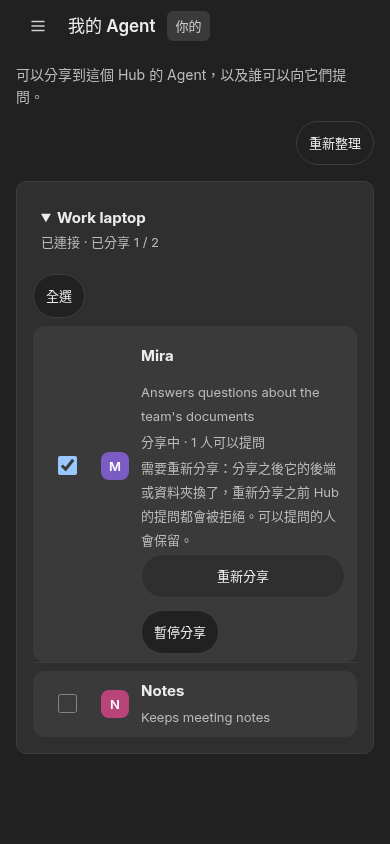
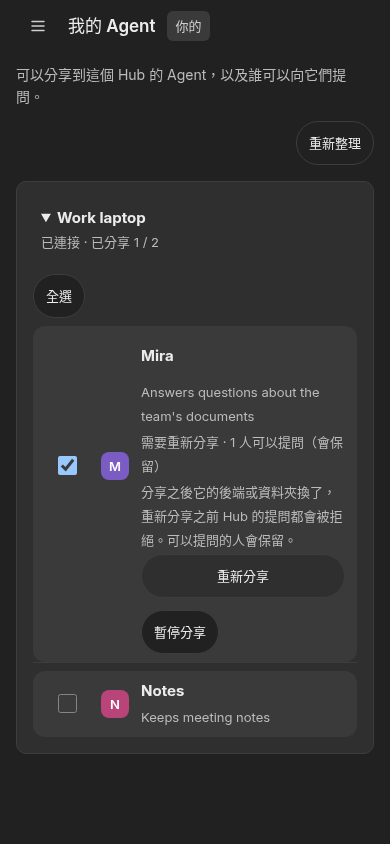
fix(hub): a lapsed row's status says Needs re-share with who may ask (kept); the Fleet hint says 提問 (#4361 leader review)

Changed region(s): [[0.3692, 0.4929, 0.8923, 0.6469]]

diff --git a/src/ui/hub-my-agents-strings.js b/src/ui/hub-my-agents-strings.js
@@ -3,7 +3,7 @@ register("hubMyAgents", {
  en: {
   offlineShort:"Offline · last seen {0}", knownShared:"{0} shared", oldCountOne:"1 Fleet needs an update to share agents from here.", oldCount:"{0} Fleets need an update to share agents from here.", namesMore:"{0} and {1} more", lead:"The agents you can share on this Hub, and who may ask each one.", refresh:"Refresh", refreshing:"Checking…", fleet:"Fleet", connected:"Connected", offline:"This Fleet is offline. Shown as last seen at {0}.", count:"{0} of {1} shared", select:"Select all", general:"Your Fleet's General. It can manage this Fleet.", classic:"ClassicBot room", classicHint:"Hub questions and answers are not posted in its Discord or Telegram room, and the room's chat is not copied to the Hub. It is one agent with one memory: it may use what it learned in the room when it answers here.",
   old:"Update this Fleet to share agents from here.", update:"Update this Fleet", updateHint:"On that computer, open Settings → Hub and check its connection and version.", off:"Sharing from the Hub page is turned off in this Fleet's Settings → Hub.", denied:"Your Hub administrator hasn't allowed you to share agents.", unknown:"The Hub could not check whether sharing is allowed. Refresh to check.", remote:"This kind of agent can't answer Hub questions yet.", unavailable:"This agent cannot answer Hub questions right now.", limit:"This Fleet already shares 64 agents, the most allowed.", suspended:"This Fleet is paused on this Hub.", revoked:"This Fleet was removed from this Hub.",
-  lapsed:"Needs re-share: its backend or folder changed since you shared it, and Hub questions are refused until you share it again. The people who may ask it stay.", shareAgain:"Share again",
+  lapsed:"Its backend or folder changed since you shared it, so Hub questions are refused until you share it again. The people who may ask it stay.", shareAgain:"Share again", needsReshare:"Needs re-share", kept:"(kept)",
   shared:"Shared", nobody:"nobody may ask yet", peopleOne:"1 person may ask", people:"{0} people may ask", subjects:"{0} people, groups or teams may ask", paused:"Paused", sharing:"Sharing…", stopping:"Stopping…", uncertain:"Not confirmed yet: this Fleet hasn't answered. Refresh to check.", refused:"Not shared: {0}", changed:"This list changed. It has been refreshed; tick again.",
   shareOne:"Share 1 agent", stopOne:"Stop sharing 1 agent", stopTitleOne:"Stop sharing 1 agent?", accessTitleOne:"1 agent is shared. Who may ask it?", share:"Share {0} agents", stop:"Stop sharing {0} agents", mixed:"Share {0} · Stop sharing {1}", apply:"Apply changes", cancel:"Cancel", stopTitle:"Stop sharing {0} agents?", stopBody:"People will no longer be able to ask: {0}. Their lists of who may ask are cleared.", stopHint:"To keep the lists and only stop answers for now, pause sharing instead.", stopGo:"Stop sharing", pause:"Pause instead", pauseOne:"Pause sharing", later:"Decide later", accessTitle:"{0} agents are shared. Who may ask them?", accessLead:"Nobody can ask them until you choose.", same:"The same people for all {0}", each:"Choose for each agent", choose:"Choose who may ask", previousMixed:"Use the list it had before", previous:"Use the list it had before ({0} people)", used:"The previous list is saved.", saved:"Saved", saveFailed:"Could not save access for {0}. Check the current agent and try again.", personal:"On my own computer", details:"Open {0}",
   empty:"You don't have an agent on this Hub yet.", already:"You can already ask other people's agents: open Chats, or @mention an agent in a room.", emptyLead:"To have an agent of your own that colleagues can ask:", personalOff:"Personal agents are turned off on this Hub. Ask your Hub administrator.", fleetLead:"If you run AgEnD, share the agents in it.", connectDenied:"Ask your Hub administrator to let you connect a Fleet.", apps:"Your own Claude Code or Codex can also use this Hub for you. That is for asking and posting as you. Colleagues can't ask it.", appsLink:"My AI apps", failed:"The list could not be read. Refresh to try again.",
@@ -11,7 +11,7 @@ register("hubMyAgents", {
  "zh-TW": {
   offlineShort:"離線 · 最後上線 {0}", knownShared:"已分享 {0}", oldCountOne:"有 1 個 Fleet 需要更新，才能從這裡分享 Agent。", oldCount:"有 {0} 個 Fleet 需要更新，才能從這裡分享 Agent。", namesMore:"{0} 等 {1} 個", lead:"可以分享到這個 Hub 的 Agent，以及誰可以向它們提問。", refresh:"重新整理", refreshing:"確認中…", fleet:"Fleet", connected:"已連接", offline:"這個 Fleet 目前離線，顯示的是 {0} 的狀態。", count:"已分享 {0} / {1}", select:"全選", general:"你的 Fleet 的 General，可以管理這個 Fleet。", classic:"ClassicBot 房間", classicHint:"Hub 的提問與回答不會貼到它的 Discord 或 Telegram 房間，房間的聊天也不會複製到 Hub。但它是同一個 Agent、同一份記憶：在這裡回答時，可能用到它在房間裡得知的內容。",
   old:"請更新這個 Fleet，才能從這裡分享 Agent。", update:"更新這個 Fleet", updateHint:"請到那台電腦的「設定 → Hub」，確認連接狀態與版本。", off:"這個 Fleet 的「設定 → Hub」關閉了從 Hub 頁面分享。", denied:"Hub 管理員還沒有允許你分享 Agent。", unknown:"Hub 目前無法確認是否允許分享，請重新整理確認。", remote:"這種 Agent 還不能回答 Hub 的提問。", unavailable:"這個 Agent 目前無法回答 Hub 的提問。", limit:"這個 Fleet 已經分享 64 個 Agent，達到上限。", suspended:"這個 Fleet 在這個 Hub 已暫停。", revoked:"這個 Fleet 已從這個 Hub 移除。",
-  lapsed:"需要重新分享：分享之後它的後端或資料夾換了，重新分享之前 Hub 的提問都會被拒絕。可以提問的人會保留。", shareAgain:"重新分享",
+  lapsed:"分享之後它的後端或資料夾換了，重新分享之前 Hub 的提問都會被拒絕。可以提問的人會保留。", shareAgain:"重新分享", needsReshare:"需要重新分享", kept:"（會保留）",
   shared:"分享中", nobody:"還沒有人可以問", peopleOne:"1 人可以提問", people:"{0} 人可以提問", subjects:"{0} 個人員、群組或團隊可以提問", paused:"已暫停", sharing:"分享中…", stopping:"停止中…", uncertain:"還沒有確認：這個 Fleet 尚未回應，請重新整理確認。", refused:"沒有分享：{0}", changed:"清單已有變動並重新整理，請重新勾選。",
   shareOne:"分享 1 個 Agent", stopOne:"停止分享 1 個 Agent", stopTitleOne:"要停止分享 1 個 Agent 嗎？", accessTitleOne:"已分享 1 個 Agent。誰可以問它？", share:"分享 {0} 個 Agent", stop:"停止分享 {0} 個 Agent", mixed:"分享 {0} 個 · 停止分享 {1} 個", apply:"套用變更", cancel:"取消", stopTitle:"要停止分享 {0} 個 Agent 嗎？", stopBody:"同仁將無法再問：{0}。這些 Agent 的「可以提問的人」名單會被清除。", stopHint:"如果只是暫時不回答、想保留名單，請改用「暫停分享」。", stopGo:"停止分享", pause:"改為暫停", pauseOne:"暫停分享", later:"稍後再決定", accessTitle:"已分享 {0} 個 Agent。誰可以問它們？", accessLead:"在你選擇之前，沒有人可以問它們。", same:"{0} 個都用同一份名單", each:"每個 Agent 分開選", choose:"選擇誰可以提問", previousMixed:"沿用之前的名單", previous:"沿用之前的名單（{0} 人）", used:"已儲存之前的名單。", saved:"已儲存", saveFailed:"無法儲存 {0} 的提問權限，請確認目前的 Agent 後再試。", personal:"在我的電腦上", details:"開啟 {0}",
   empty:"你在這個 Hub 還沒有自己的 Agent。", already:"你現在就可以問別人的 Agent：到「對話」，或在房間裡 @ 一個 Agent。", emptyLead:"想要有自己的 Agent 讓同仁提問：", personalOff:"這個 Hub 還沒有開啟個人 Agent，請洽 Hub 管理員。", fleetLead:"如果你有在使用 AgEnD，可以分享裡面的 Agent。", connectDenied:"請 Hub 管理員允許你連接 Fleet。", apps:"你自己的 Claude Code 或 Codex 也可以替你使用這個 Hub，用來提問和發言；同仁不能問它。", appsLink:"我的 AI App", failed:"無法讀取清單，請重新整理再試。",

diff --git a/src/ui/hub-my-agents.js b/src/ui/hub-my-agents.js
@@ -131,7 +131,9 @@ export function HubMyAgents({ client, scope, shared = [], policy = false, person
             <span class="hub-row-text">${row.current ? html`<a href=${`/ui/hub/exposures?agent=${encodeURIComponent(row.current.id)}`} aria-label=${ms("details", row.displayName)}><strong>${row.displayName}</strong></a>` : html`<strong>${row.displayName}</strong>`}
               ${row.kind === "classic-room" ? html`<small class="tag">${ms("classic")}</small>` : null}<small class="note">${reason && reason !== "offline" ? ms(reason) : row.general ? ms("general") : row.description}</small>
               ${row.current?.intro ? html`<small class="note">${row.current.intro}</small>` : null}
-              ${row.shared ? html`<small class="note">${ms(row.current.state !== "published" ? "paused" : "shared")} · ${summary(row.current)}</small>` : null}
+              ${row.shared ? (row.exposure?.lapsed === true && row.instance
+                ? html`<small class="note hub-agent-lapsed-status">${ms("needsReshare")} · ${summary(row.current)}${lang() === "zh-TW" ? "" : " "}${ms("kept")}</small>`
+                : html`<small class="note">${ms(row.current.state !== "published" ? "paused" : "shared")} · ${summary(row.current)}</small>`) : null}
               ${row.shared && row.exposure?.lapsed === true && row.instance ? html`<small class="note hub-agent-lapsed" role="status">${ms("lapsed")}</small>
                 <button type="button" class="btn btn-sm hub-agent-share-again" data-share-again=${row.instance} disabled=${busy || !!waiting.length} onClick=${() => shareAgain(row, fleet)}>${ms("shareAgain")}</button>` : null}
               ${status ? html`<small class=${status.state === "refused" ? "err" : "note"} role="status">${status.state === "uncertain" ? ms("uncertain") : status.state === "refused" ? status.code === "stale-list" ? ms("changed") : ms("refused", ms(({ "not-allowed": "denied", "switched-off": "off", "limit": "limit", "not-shareable": "unavailable" })[status.code] || "unavailable")) : ms(status.instance ? "sharing" : "stopping")}</small>` : null}</span>

diff --git a/src/ui/hub-strings.js b/src/ui/hub-strings.js
@@ -147,7 +147,7 @@ register("hub", {
     hold_rejected: "Hub 無法繼續使用這個 Fleet 儲存的連接。Hub 可能已還原至較舊的狀態，或不再接受這個 Fleet；請重新連接。",
     hold_refused: "Hub 拒絕了這次連接。", hold_revoked: "Hub 已撤銷這個 Fleet 的連接。", hold_other: "連接已暫停。",
     contactLimit: "回答 Hub 的提問時，這個 Agent 不能聯絡其他 Agent",
-    contactLimitHint: "Hub 上的人可以問這個 Agent，但不能透過它找到你的其他 Agent。回答獲接受或經過 30 分鐘後解除。",
+    contactLimitHint: "Hub 上的人可以向這個 Agent 提問，但不能透過它找到你的其他 Agent。回答獲接受或經過 30 分鐘後解除。",
     contactLimitNotice: "現有分享已開啟聯絡限制。若要讓 Agent 在回答 Hub 提問時互相協助，請到「設定 → Hub → 分享的 Agent」取消勾選「回答 Hub 的提問時，這個 Agent 不能聯絡其他 Agent」。",
     contactNoticeDone: "知道了",
     sharedTitle: "分享的 Agent",

diff --git a/tests/hub-share-lapse-page-m3543.test.ts b/tests/hub-share-lapse-page-m3543.test.ts
@@ -31,7 +31,8 @@ async function mount(mark = true, connected = true, policy = false, old = false,
 }
 it("a lapsed shared agent says Needs re-share and offers Share again: one share request for it, nothing else", async () => {
  const { p, calls } = await mount(true, true, false, false, true);
- expect(p.root.textContent).toContain("Needs re-share");
+ expect(p.root.querySelector(".hub-agent-lapsed-status")?.textContent).toBe("Needs re-share · nobody may ask yet (kept)");
+ expect(p.root.textContent).not.toContain("Shared · ");   // no "Shared" status above a lapse
  const again = p.root.querySelector('[data-share-again="notes"]') as any;
  expect(again).not.toBeNull(); expect(again.textContent).toBe("Share again");
  again.click(); await settle(20);
